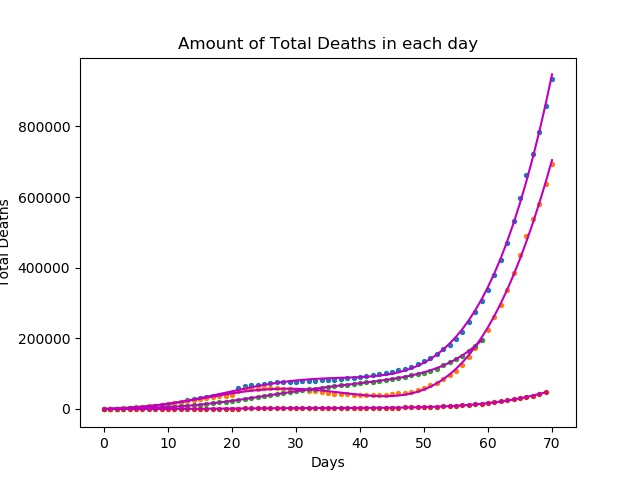
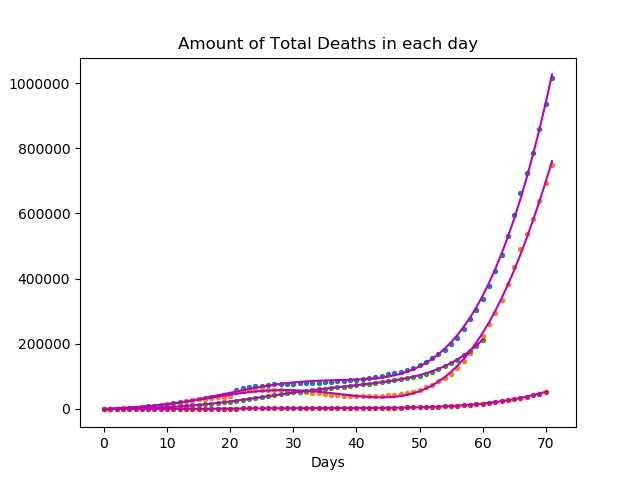
update 03/04/2020

diff --git a/README.md b/README.md
@@ -12,17 +12,17 @@ COVID-19, the disease that can result from the coronavirus worldwide new pandemi
 
 
 
-Our predictions for 02/04/2020 : 
+Our predictions for 03/04/2020 : 
 
-The predictions for Total Cases today is: 1037752
+The predictions for Total Cases today is: 1119168
 
-The predictions for Total Active Cases today is: 770824
+The predictions for Total Active Cases today is: 825982
 
-The predictions for Total Cured Cases today is: 212690
+The predictions for Total Cured Cases today is: 232645
 
-The predictions for Total Deaths  today is: 52830
+The predictions for Total Deaths  today is: 58910
 
-The predictions for Total Critical Cases  today is: 40369
+The predictions for Total Critical Cases  today is: 42957
 
 
 
@@ -33,7 +33,8 @@ The predictions for Total Critical Cases  today is: 40369
 
 |    Date    | Predicted Total Cases | Real Total Cases | Predicted Total Recovered | Real Total Recovered | Predicted  Total Deaths | Real Total Deaths | Predicted Active Cases | Real Active Cases | Predicted  Critical Cases | Real Critical Cases |
 | :--------: | :-------------------: | :--------------: | :-----------------------: | :------------------: | :---------------------: | :---------------: | :--------------------: | :---------------: | :-----------------------: | :-----------------: |
-| 02/04/2020 |        1037752        |        ??        |          212690           |          ??          |          52830          |        ??         |         770824         |        ??         |           40369           |         ??          |
+| 03/04/2020 |        1119168        |        ??        |          232645           |          ??          |          58910          |        ??         |         825982         |        ??         |           42957           |         ??          |
+| 02/04/2020 |        1037752        |     1015065      |          212690           |        212018        |          52830          |       53167       |         770824         |      749880       |           40369           |        37698        |
 | 01/04/2020 |        959493         |      935197      |          195314           |        193989        |          47587          |       47192       |         715358         |      694016       |           37303           |        35478        |
 | 31/03/2020 |        885928         |      858355      |          180193           |        178117        |          42846          |       42309       |         661058         |      637929       |           33994           |        32836        |
 | 30/03/2020 |        800275         |      784794      |          165482           |        165387        |          38566          |       37788       |         609432         |      581619       |           31026           |        29492        |
